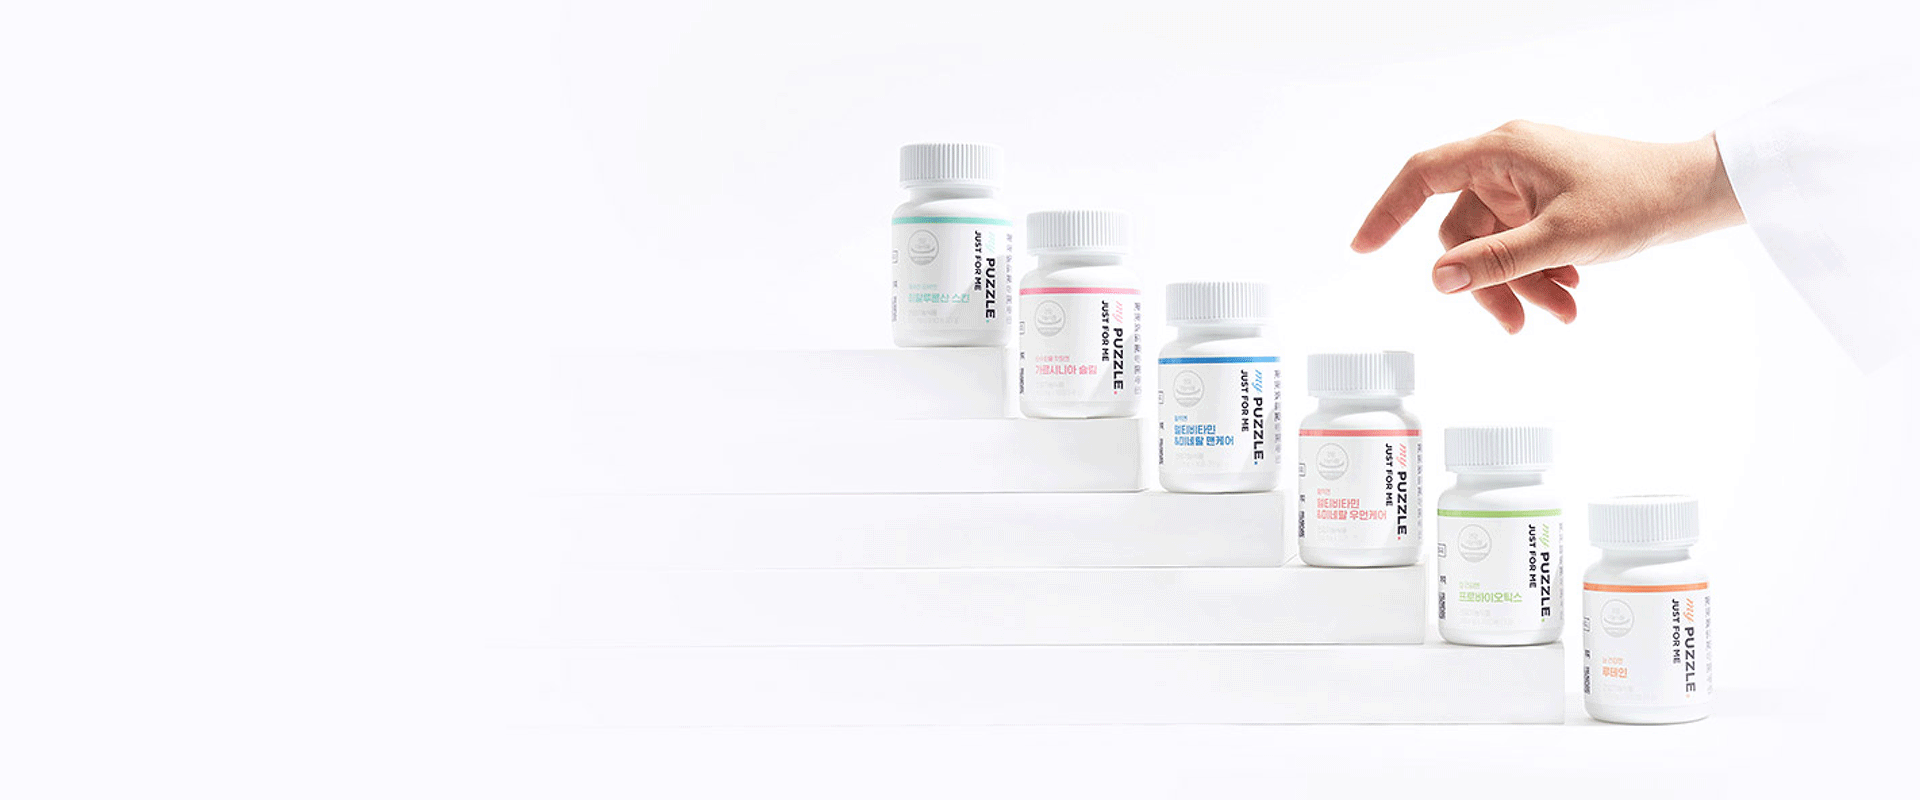
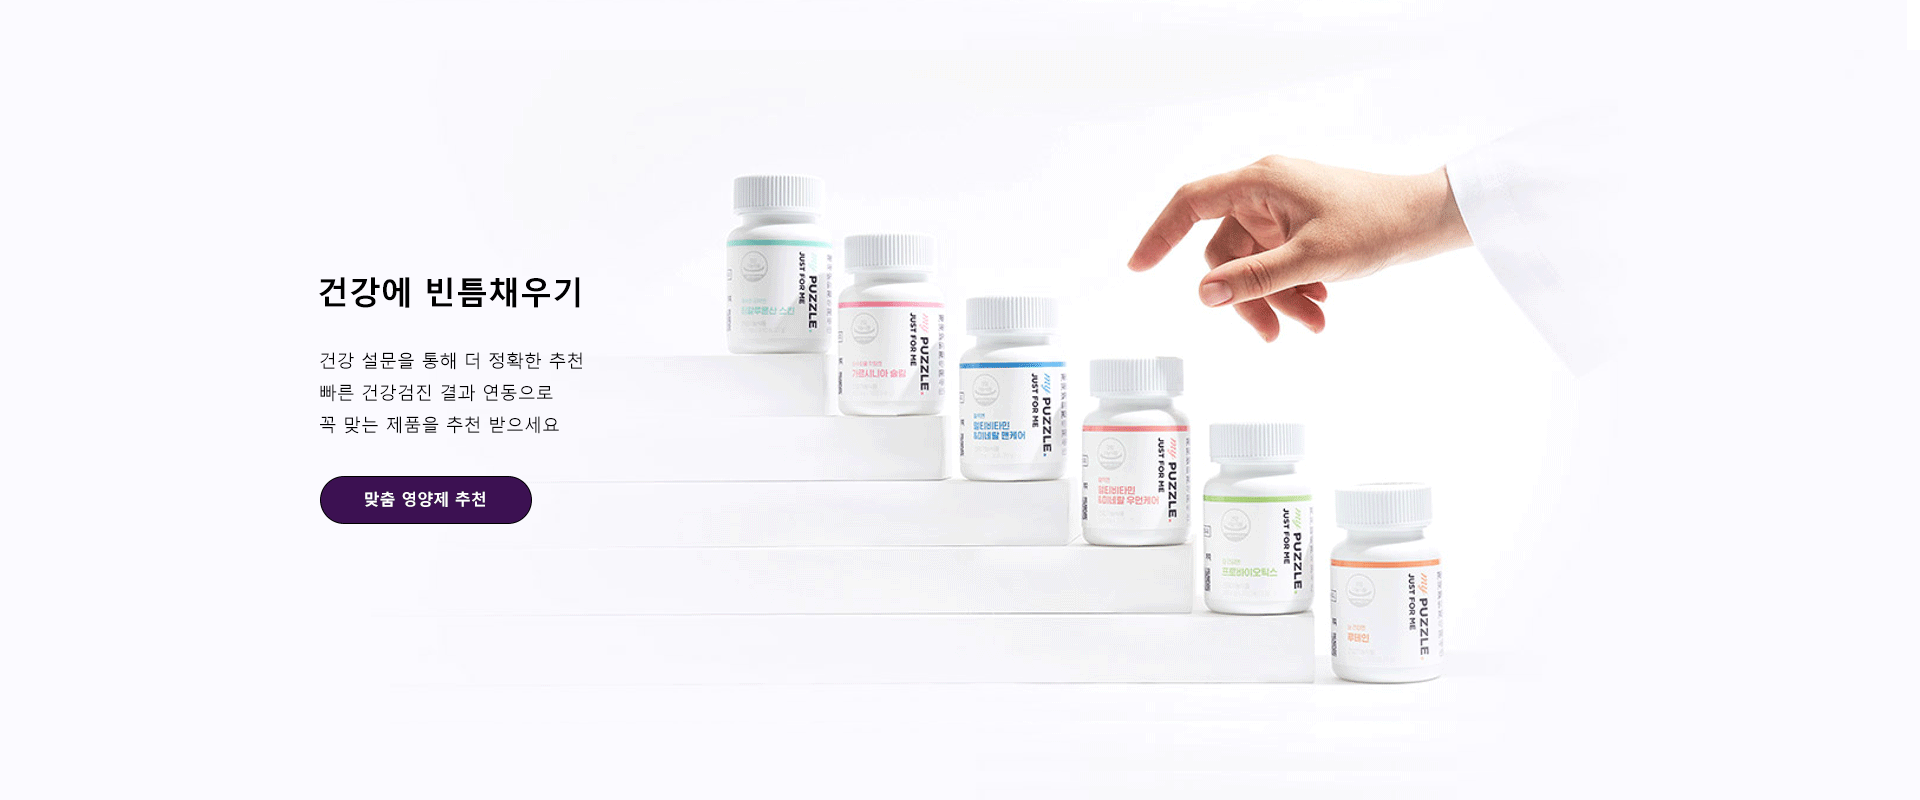
2025-0601

diff --git a/index.html b/index.html
@@ -10,6 +10,8 @@
     <link rel="stylesheet" href="css/header.css">
     <link rel="stylesheet" href="css/index.css">
     <link rel="stylesheet" href="css/footer.css">
+    <script src="script/jquery-1.7.2.min.js"></script>
+    <script src="script/index.js"></script>
 
 </head>
 
@@ -29,7 +31,7 @@
                     <li><a href="#">마이퍼즐</a></li>
                 </ul>
             </nav>
-            
+
             <div class="login">
                 <a href="#" class="icon-btn"><img src="img/icon/icon_login.png" alt="로그인 버튼"></a>
                 <a href="#" class="icon-btn"><img src="img/icon/icon_cart.png" alt="장바구니 버튼"></a>
@@ -42,24 +44,27 @@
         <article class="sliderbanner">
             <div class="banner clear">
                 <div class="banner-box">
+                    <a href="#"><img src="img/banner1.png" alt="건강에 빈틈채우기"></a>
+                </div>
+
+                <div class="banner-box">
                     <a href="#"><img src="img/banner2.png" alt="건강에 빈틈채우기"></a>
                 </div>
 
                 <div class="banner-box">
-                    <a href="#"><img src="img/banner8.png" alt="건강에 빈틈채우기"></a>
+                    <a href="#"><img src="img/banner3.jpg" alt="건강에 빈틈채우기"></a>
                 </div>
 
                 <div class="banner-box">
+                    <a href="#"><img src="img/banner4.jpg" alt="건강에 빈틈채우기"></a>
+                </div>
+                 <div class="banner-box">
                     <a href="#"><img src="img/banner1.png" alt="건강에 빈틈채우기"></a>
                 </div>
-
-                <div class="banner-box">
-                    <a href="#"><img src="img/banner1.png" alt="건강에 빈틈채우기"></a>
-                </div>
-
-                <div class="btn-prev"><a href="#"><img src="img/icon/icon_prev.png" alt="이전버튼"></a></div>
-                <div class="btn-next"><a href="#"><img src="img/icon/icon_next.png" alt="다음버튼"></a></div>
             </div>
+
+            <div class="btn-prev"><a href="#"><img src="img/icon/icon_prev.png" alt="이전버튼"></a></div>
+            <div class="btn-next"><a href="#"><img src="img/icon/icon_next.png" alt="다음버튼"></a></div>
         </article>
         <!-- custom -->
         <article class="custom">
@@ -67,7 +72,7 @@
                 <div class="title">
                     <h2>나만의 맞춤 영양제</h2>
                     <p>우리는 생활 환경, 식습관, 건강 상태에 따라 각자 다른 건강관리가 필요합니다.<br>
-                    나만의 맞춤 영양제를 정기구독해보세요</p>
+                        나만의 맞춤 영양제를 정기구독해보세요</p>
                     <a href="#" class="btn">맞춤 영양제 추천</a>
                 </div>
 

diff --git a/script/index.js b/script/index.js
@@ -1,0 +1,59 @@
+//index.js
+
+
+$(document).ready(function () {
+    var slidW = $('.banner-box').width();
+    //자동 슬라이드
+    //setInterval(leftMove, 3000);
+    var page = 0;
+
+    function leftMove() {
+        page++
+        if (page == 5) {
+            $('.banner').css({
+                marginLeft: 0
+            });
+            page = 1;
+        }
+        $('.banner').animate({
+            marginLeft: -(slidW * page)
+        });
+    }
+
+    //버튼을 클릭했을 떄
+    $('.btn-next a').click(function (e) {
+        e.preventDefault();
+
+        $('.banner').animate({
+            marginLeft: '-=' + slidW
+        }, 800, function () {
+            page++
+            if (page == 5) {
+                $('.banner').css({
+                    marginLeft: 0
+                });
+                page = 1;
+            }
+        });
+    });
+
+    $('.btn-prev a').click(function (e2) {
+        e2.preventDefault();
+
+        $('.banner').animate({
+            marginLeft: '+=' + slidW
+        }, 800, function () {
+            page--
+            if (page == 1) {
+                $('.banner').css({
+                    marginLeft: slidW*page
+                });
+                page = 5;
+            }
+        });
+    });
+
+
+});
+
+

diff --git a/css/index.css b/css/index.css
@@ -19,17 +19,16 @@ article.sliderbanner {
     overflow: hidden;
     margin-bottom: 80px;
     position: relative;
-/*     max-width: 1920px;
-    margin: 0 auto; */
+
 }
 
 .sliderbanner .banner {
-    width: 400%;
+    width: 500%;
 }
 
 .banner .banner-box {
     float: left;
-    width: 25%;
+    width: 20%;
 }
 
 .banner .banner-box a {
@@ -38,23 +37,22 @@ article.sliderbanner {
 
 .banner .banner-box a img {
     display: block;
-    width: 100%;
+    height: 100%;
 }
 
-.banner .btn-prev {
+.sliderbanner .btn-prev {
     position: absolute;
     left: 10%;
     top: 50%;
     transform: translateY(-50%);
 }
 
-.banner .btn-next {
+.sliderbanner .btn-next {
     position: absolute;
     right: 10%;
     top: 50%;
     transform: translateY(-50%);
 }
-
 /* custom */
 article.custom {
     width: 100%;
@@ -139,11 +137,12 @@ ul li .imgbox img {
     transform: translateY(-50%);
     padding: 24px 24px;
     box-sizing: border-box;
-    border-radius: 30px;
-    background-color: #fff;
+    border-radius: 15px;
+    background-color: #FBFAFF;
 }
 
 .desbox .des h3 {
+    font-size: 24px;
     font-family: 'S-Core Dream 7 ';
     font-weight: 700;
     margin-bottom: 4px;

diff --git a/content/pill.html b/content/pill.html
@@ -3,13 +3,14 @@
 
 <head>
     <meta charset="UTF-8">
+    <title>영양제</title>
     <link rel="stylesheet" href="../css/reset.css">
     <link rel="stylesheet" href="../css/common.css">
     <link rel="stylesheet" href="../css/header.css">
     <link rel="stylesheet" href="css/pill.css">
     <link rel="stylesheet" href="../css/footer.css">
 
-    <title>영양제</title>
+    
 </head>
 
 <body>

diff --git a/content/css/pill.css b/content/css/pill.css
@@ -96,6 +96,7 @@ article.list {
     overflow: hidden;
 }
 
+
 .list ul li:nth-child(4n){
     margin-right:0;
 }
